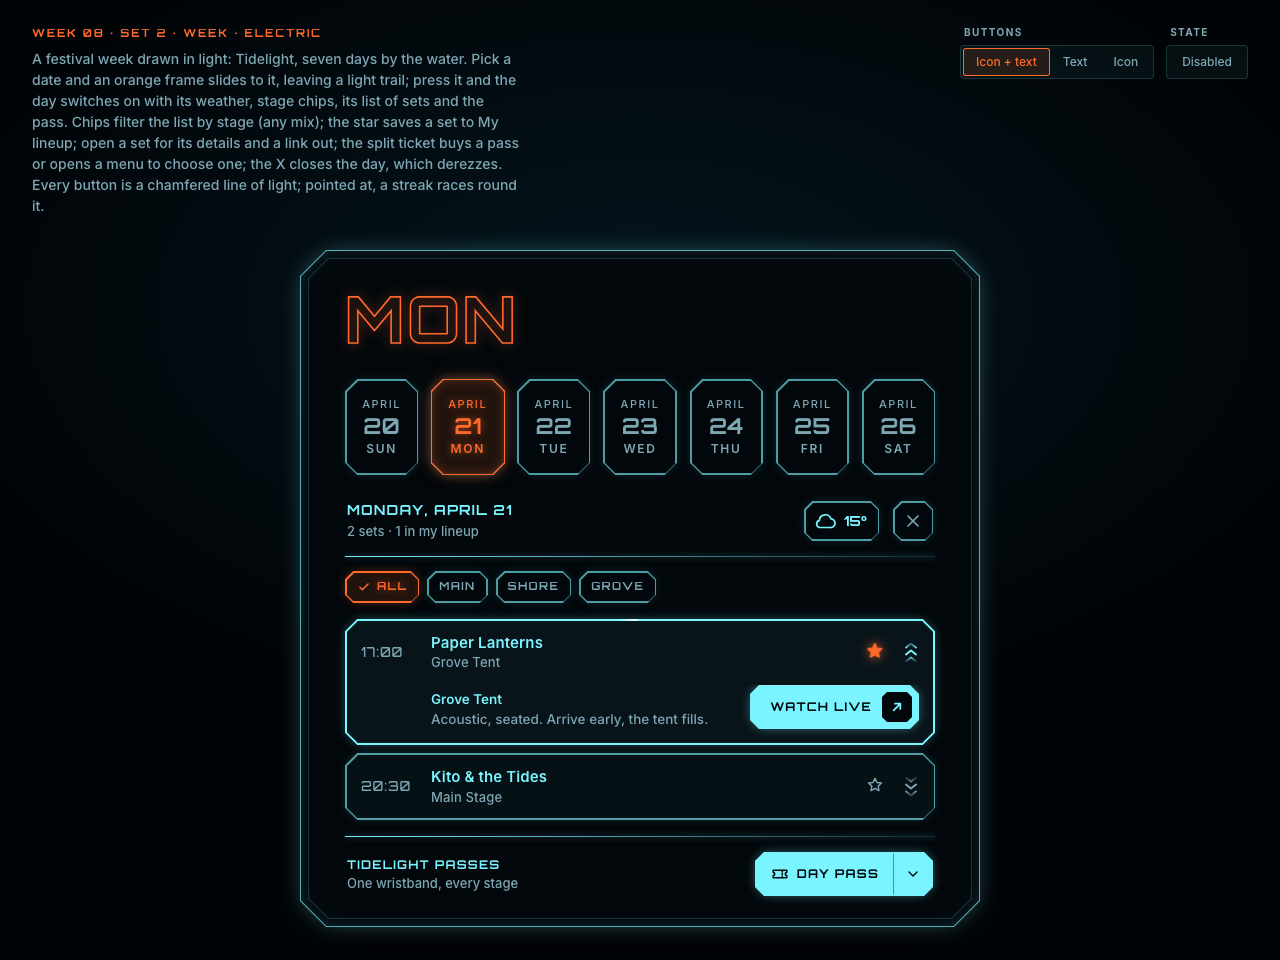
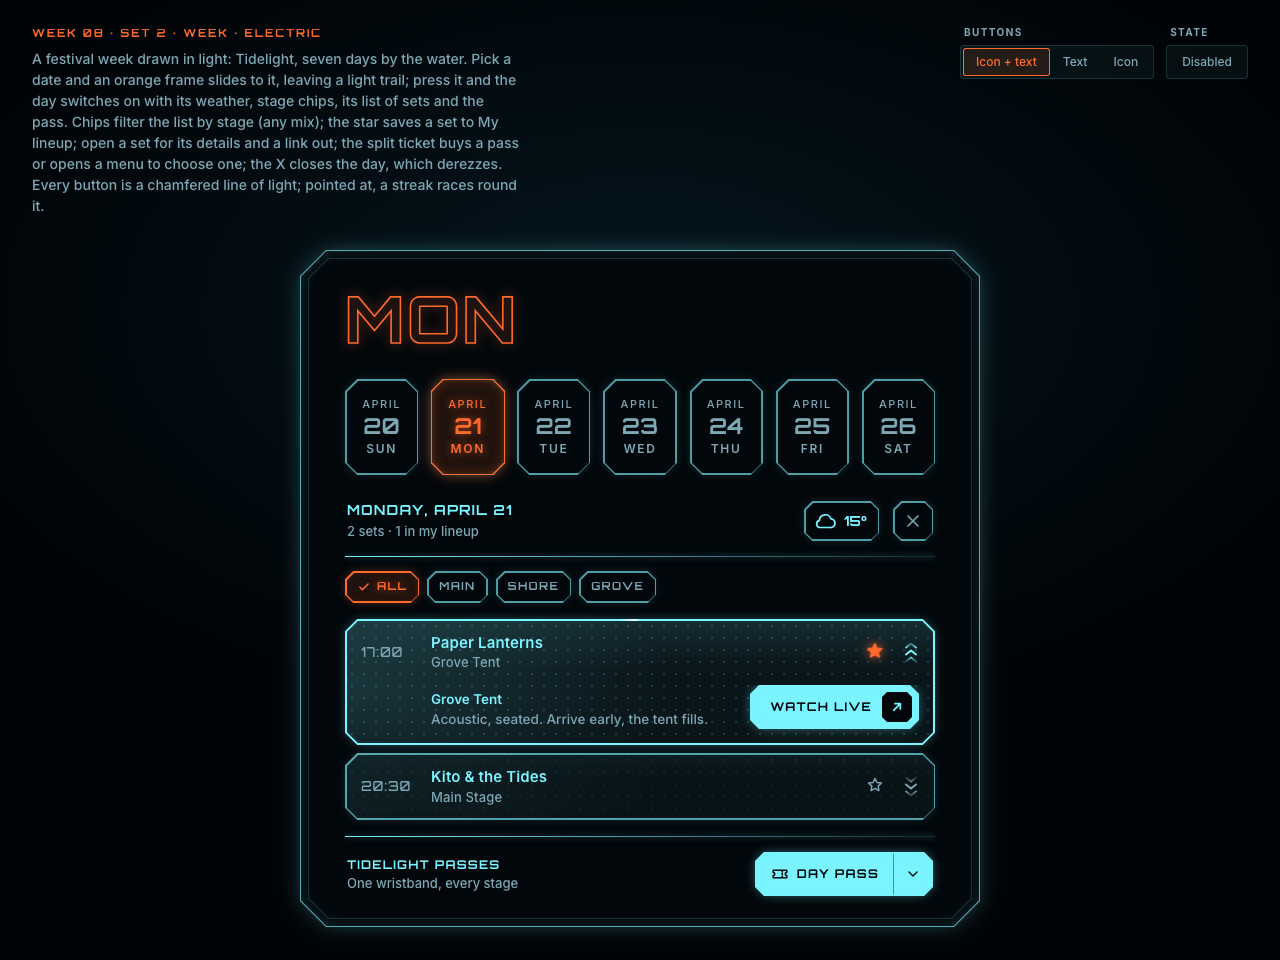
Week 08 Week: set rows become lit panels
Light falls in from the left and top edges over a faint 12px matrix of light points; pointed at, the row brightens and one beam sweeps across it; open, it is brightest. Spec and frames updated.

Changed region(s): [[0.25, 0.625, 0.4688, 0.75]]

diff --git a/week-08/week-08.html b/week-08/week-08.html
@@ -158,7 +158,7 @@
         </div>
         <div class="set-box" id="set-2">
           <button type="button" class="set-card" aria-haspopup="dialog" aria-controls="dlg-2">
-            <span class="set-thumbs" aria-hidden="true"><img src="images/process/week-button-0.png?v=12" alt="" loading="lazy" /><img src="images/process/week-button-3.png?v=12" alt="" loading="lazy" /></span>
+            <span class="set-thumbs" aria-hidden="true"><img src="images/process/week-button-0.png?v=13" alt="" loading="lazy" /><img src="images/process/week-button-3.png?v=13" alt="" loading="lazy" /></span>
             <span class="set-head"><span class="set-num">Set 2</span><span class="set-name">Week</span><span class="set-line">Electric. A music festival&rsquo;s week drawn as a grid of light: every date is a button that switches on the day&rsquo;s weather and its list of sets; stage chips filter it, a star saves a set, some sets open to a link out, a split ticket buys a pass, and a closed day derezzes. Every button is a chamfered line of light.</span></span>
             <span class="set-open" aria-hidden="true"></span>
           </button>
@@ -171,17 +171,17 @@
               <h4>Prototypes</h4>
               <div class="proto-grid" style="grid-template-columns:1fr">
                 <figure class="proto">
-                  <iframe style="height:auto;aspect-ratio:1200/780" src="week-08-week-button.html?v=12" title="Week in use: a festival week of date buttons that open each day's weather and list of sets, then every state, the depth, and the spec" loading="lazy"></iframe>
+                  <iframe style="height:auto;aspect-ratio:1200/780" src="week-08-week-button.html?v=13" title="Week in use: a festival week of date buttons that open each day's weather and list of sets, then every state, the depth, and the spec" loading="lazy"></iframe>
                   <figcaption>
                     <b>In use, every state and the depth</b>
                     <span>Tidelight, a fictional music festival, April 20 to 26, restyled after Tron: a black world drawn in lines of light, cyan for the system and orange for what is yours, chamfered corners, display type in Orbitron. Every button is a ring of cyan light; pointed at, a white-hot streak races round it like a light cycle. The dates are a single-select group: an orange-lit frame slides to the picked date and leaves a light-cycle wall under the strip, and the outlined day name is pushed down. Pressed, a date switches its day on (two levels): its rules draw left to right and each part flickers on like a tube. Inside: the weather, a tertiary button whose icon acts its weather out; stage chips, a multi-select group that folds away the sets on other stages; the sets, secondary rows that open in place to their details (three levels), some with a primary lit-cyan link out whose arrow flies out and back; a save star, a tertiary toggle that turns orange; a split ticket, primary, that buys the pass or scans down a menu to choose one; and an X whose arms pop out to the corners as the day derezzes into scanlines. Under it, every state, the depth step by step, then the spec.</span>
-                    <button type="button" class="viewer-open" data-wide data-src="week-08-week-button.html?v=12">View larger</button>
+                    <button type="button" class="viewer-open" data-wide data-src="week-08-week-button.html?v=13">View larger</button>
                   </figcaption>
                 </figure>
               </div>
               <h4>Process</h4>
               <p>Set 2 went through a coral drain, a split-flap board and a music waveform (both in Ideation now), always the same struggle: motion that did not belong to its scene. Here the scene comes first: a week, the user&rsquo;s own reference, and each button does one plain thing in it, open a day, show the weather, open a set, follow a link, dismiss. The storyline became a festival schedule, then the look moved to Tron&rsquo;s grid: light as the one material, so every motion is light behaving like light (streaks, trails, a flicker on, a derez off).</p>
-              <div class="process-grid"><figure><img src="images/process/week-button-0.png?v=12" alt="The week at rest" loading="lazy" /><figcaption>The week, Sunday picked.</figcaption></figure><figure><img src="images/process/week-button-1.png?v=12" alt="Monday open with the forecast showing" loading="lazy" /><figcaption>Monday open; the weather pointed at.</figcaption></figure><figure><img src="images/process/week-button-2.png?v=12" alt="Monday opened" loading="lazy" /><figcaption>A date &rarr; its day.</figcaption></figure><figure><img src="images/process/week-button-3.png?v=12" alt="A set opened to its link" loading="lazy" /><figcaption>A set &rarr; its details and link.</figcaption></figure></div>
+              <div class="process-grid"><figure><img src="images/process/week-button-0.png?v=13" alt="The week at rest" loading="lazy" /><figcaption>The week, Sunday picked.</figcaption></figure><figure><img src="images/process/week-button-1.png?v=13" alt="Monday open with the forecast showing" loading="lazy" /><figcaption>Monday open; the weather pointed at.</figcaption></figure><figure><img src="images/process/week-button-2.png?v=13" alt="Monday opened" loading="lazy" /><figcaption>A date &rarr; its day.</figcaption></figure><figure><img src="images/process/week-button-3.png?v=13" alt="A set opened to its link" loading="lazy" /><figcaption>A set &rarr; its details and link.</figcaption></figure></div>
             </div>
           </dialog>
         </div>

diff --git a/week-08/week-08-week-button.html b/week-08/week-08-week-button.html
@@ -199,7 +199,27 @@
 
   /* secondary: a plan, opening in place (level 3) */
   .plans { display: grid; gap: 8px; padding-top: 14px; }
-  .plan { border-radius: var(--s-r); background: var(--row); transition: background-color .2s, box-shadow var(--fold) var(--ease); }
+  /* the row is a lit panel: light falls in from the left edge (where the time is) and from the top edge,
+     over a faint matrix of light points; --lit sets how strongly. Pointed at, it brightens and one beam
+     of light sweeps across it left to right; open, it stays brightest. */
+  @property --lit { syntax: '<number>'; inherits: false; initial-value: .7; }
+  @property --bx { syntax: '<percentage>'; inherits: false; initial-value: 100%; }
+  .plan { --lit: .7; border-radius: var(--s-r); background-color: var(--row);
+    background-image:
+      linear-gradient(100deg, transparent 38%, rgb(122 244 255 / .1) 47%, rgb(233 253 255 / .16) 50%, rgb(122 244 255 / .1) 53%, transparent 62%),
+      radial-gradient(90% 160% at 0% 50%, rgb(122 244 255 / calc(.1 * var(--lit))), transparent 62%),
+      linear-gradient(180deg, rgb(122 244 255 / calc(.07 * var(--lit))), transparent 42%),
+      radial-gradient(circle at 1px 1px, rgb(122 244 255 / calc(.11 * var(--lit))) 1px, transparent 1.6px);
+    background-size: 300% 100%, 100% 100%, 100% 100%, 12px 12px;
+    background-position: var(--bx) 0, 0 0, 0 0, 6px 6px;
+    background-repeat: no-repeat, no-repeat, no-repeat, repeat;
+    transition: background-color .2s, box-shadow var(--fold) var(--ease), --lit .5s var(--ease); }
+  .plan:hover, .plan.st-hover { --lit: 1; }
+  .plan:hover { animation: sweep 1.1s var(--sharp) 1; }
+  .plan.st-hover { --bx: 45%; }
+  .plan.open { --lit: 1.5; }
+  @keyframes sweep { from { --bx: 100%; } to { --bx: -10%; } }
+  .plan:has(.tg:disabled) { --lit: .25; animation: none; }
   .plan > .tg { display: grid; grid-template-columns: 58px 1fr 38px auto; align-items: center; gap: 12px; width: 100%; padding: 14px var(--s-pad); border-radius: var(--s-r); transition: transform .45s var(--spring); }
   .plan .time { font: 500 13px/1 var(--grid); letter-spacing: .06em; color: var(--mute); }
   .plan .what { font-size: 15px; font-weight: 600; letter-spacing: .01em; }
@@ -217,14 +237,14 @@
   .plan.st-hover .esc i { translate: 0 3.5px; }
   @keyframes escalate { to { translate: 0 7px; } }
   .plan:has(.tg:disabled) .esc i { animation: none; }
-  .plan:hover, .plan.st-hover { background: var(--row-h); }
+  .plan:hover, .plan.st-hover { background-color: var(--row-h); }
   .plan > .tg.is-down, .plan.st-down > .tg { transform: scale(.985); transition-duration: .1s; }
-  .plan.open { background: rgba(122,244,255,.06); }
+  .plan.open { background-color: rgba(122,244,255,.06); }
   /* the plans are also .fade (their entrance); this keeps that entrance and adds the ring and fill, which the
      .day.open .fade rule would otherwise override */
   .day.open .plan.fade { transition: opacity .5s var(--ease) calc(180ms + var(--k, 0) * var(--stagger)), translate .7s var(--spring) calc(180ms + var(--k, 0) * var(--stagger)),
-    background-color .2s, box-shadow var(--fold) var(--ease); }
-  .day.open .plan.fade.open { transition: opacity .5s var(--ease), translate .7s var(--spring), background-color .4s var(--ease), box-shadow .5s var(--ease); }
+    background-color .2s, box-shadow var(--fold) var(--ease), --lit .5s var(--ease); }
+  .day.open .plan.fade.open { transition: opacity .5s var(--ease), translate .7s var(--spring), background-color .4s var(--ease), box-shadow .5s var(--ease), --lit .6s var(--ease); }
   .plan.open .esc { rotate: 180deg; }
   .plan .more { display: grid; grid-template-rows: 0fr; transition: grid-template-rows var(--fold) var(--ease); }
   .plan.open .more { grid-template-rows: 1fr; transition: grid-template-rows var(--unfold) cubic-bezier(.4, 0, .2, 1); }
@@ -786,7 +806,7 @@
           ['Pressed', 'scaled to 90%'],
         ]],
         ['Secondary · a set', [
-          ['Row', `${tok('--s-r')} corners, ${tok('--s-pad')} sides, ${tok('--row')}`], ['Hover', `${tok('--row-h')}, the streak runs round; the chevron escalator starts climbing down (700ms a step)`], ['Pressed', 'scaled to 98.5%'],
+          ['Row', `${tok('--s-r')} corners, ${tok('--s-pad')} sides, ${tok('--row')}`], ['Light', 'a lit panel: light from the left edge and the top edge over a 12px matrix of faint light points; brighter pointed at (and one beam sweeps across left to right, 1.1s), brightest open'], ['Hover', `${tok('--row-h')}, the streak runs round; the chevron escalator starts climbing down (700ms a step)`], ['Pressed', 'scaled to 98.5%'],
           ['Open', `the line thickens to 2px and the streak runs round it once; the chevron escalator turns over and keeps running the other way, slower; the row unfolds (${tok('--unfold')}) and the details flicker on after it; it folds back in ${tok('--fold')}`],
         ]],
         ['Tertiary · weather, dismiss', [
